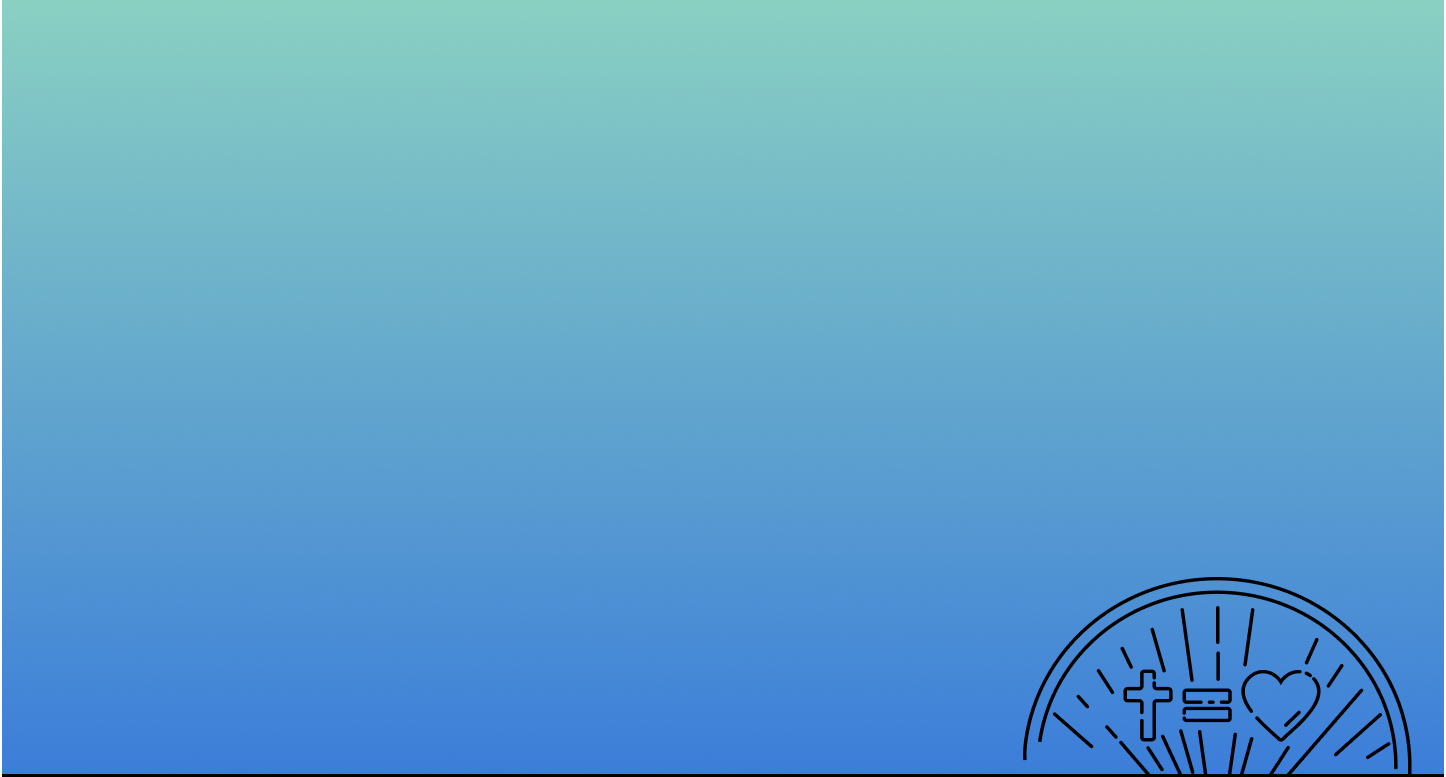
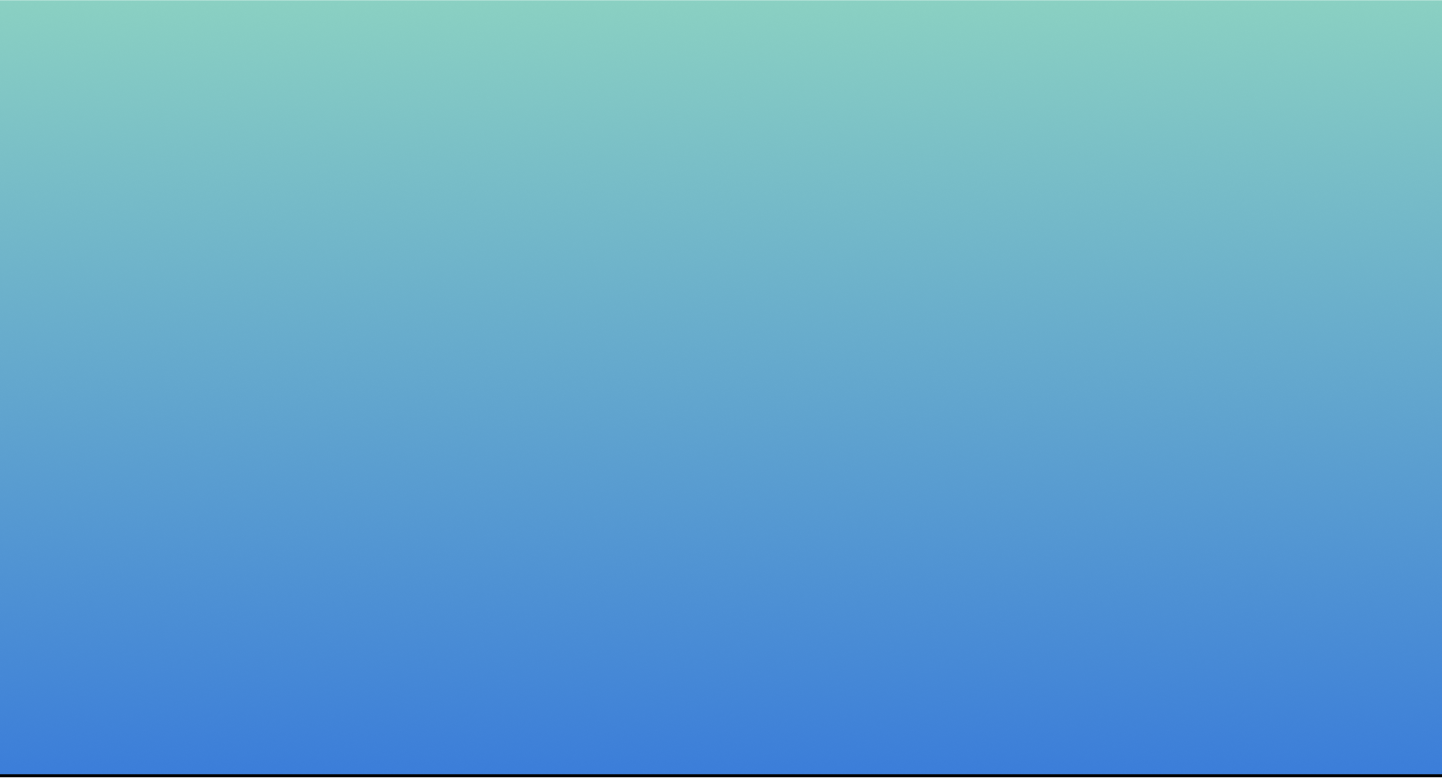
latest changes

Changed region(s): [[0.0, 0.0, 1.0, 1.0]]

diff --git a/pages/easter-2024/index.js b/pages/easter-2024/index.js
@@ -145,11 +145,20 @@ const Easter = () => {
         {/* Kids Programming Section */}
         <Box
           py="xxl"
-          backgroundImage="url(/easter/kids-programming-background.png)"
+          backgroundColor="#EBCD5F"
           backgroundPosition="center"
           backgroundSize="cover"
           borderTop="3px solid black"
+          // source="/easter/easer"
         >
+          {/* <Image
+            display={{ _: 'none', md: 'block' }}
+            source="/easter/easter-elements-1.png"
+            height={{ _: 60, lg: 80, xl: 300 }}
+            width={{ _: 100, lg: 140, xl: 300 }}
+            mr="0rem"
+            ml={{ _: 0, md: 'xl' }}
+          /> */}
           <Box
             m="auto"
             maxWidth="1100px"
@@ -159,7 +168,7 @@ const Easter = () => {
             justifyContent="center"
           >
             <EasterContentBlock
-              title={`Special Programming\nfor Kids`}
+              title={`Special Programming for Kids`}
               actions={[
                 {
                   title: 'Find A Service',
@@ -182,7 +191,7 @@ const Easter = () => {
                 </p>
               </div>
             `}
-              image={'easter/easter-2024-kids-programming.png'}
+              image={'easter/special-kids-programming.png'}
               imageRatio={'12by17'}
             />
           </Box>

diff --git a/ui-kit/EasterContentBlock/EasterContentBlock.js b/ui-kit/EasterContentBlock/EasterContentBlock.js
@@ -123,7 +123,7 @@ function EasterContentBlock(props = {}) {
         <ConditionalBox condition={hasTitle} order={horizontalLayout ? 1 : 0}>
           <Box
             as="h1"
-            fontSize="70px"
+            fontSize={{ _: '45px', md: '70px' }}
             color={props?.title.includes('Kids') ? 'black' : 'white'}
           >
             {props.title}

diff --git a/components/PhotoCarousel/PhotoCarousel.js b/components/PhotoCarousel/PhotoCarousel.js
@@ -12,7 +12,7 @@ function PhotoCarousel(props = {}) {
   const chunked = chunk(props?.photos, 2);
 
   return (
-    <Box overflow="hidden">
+    <Box overflow="hidden" borderTop="3px solid black">
       <Styled.CarouselTrack
         width={{ _: '600%', sm: '400%', md: '300%', lg: '200%' }}
       >
